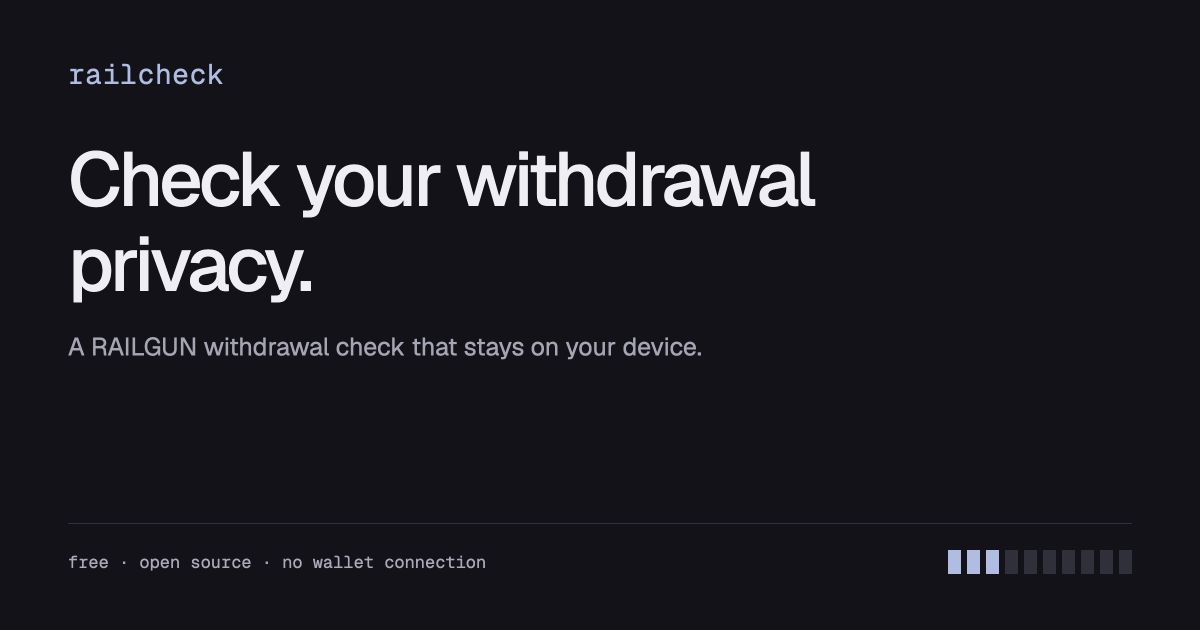
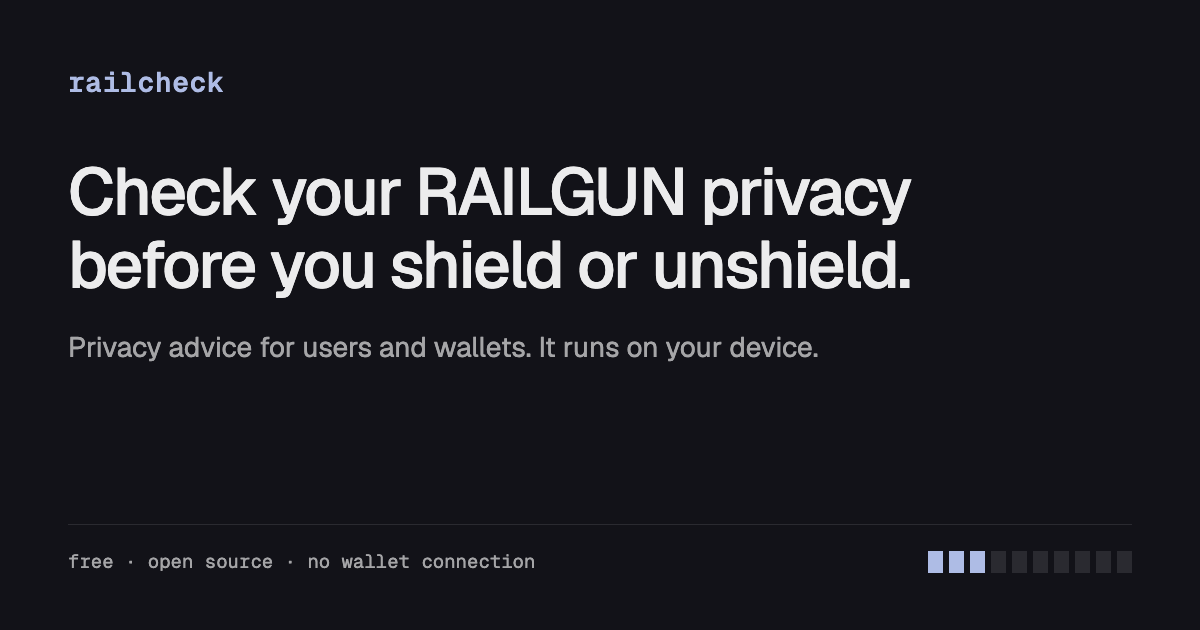
Share image: shield and unshield, made from HTML
- New public/og.png (1200 x 630, PNG): 'Check your RAILGUN privacy before
  you shield or unshield.' The old image said 'withdrawal privacy' and was
  a JPEG with a .png name.
- scripts/og.html is the source, with the command to make the image again.

diff --git a/scripts/og.html b/scripts/og.html
@@ -1,0 +1,93 @@
+<!doctype html>
+<!--
+  Source of public/og.png (1200 × 630). To make the image again, from the repository root:
+  "/Applications/Google Chrome.app/Contents/MacOS/Google Chrome" --headless --hide-scrollbars \
+    --window-size=1200,630 --screenshot=public/og.png scripts/og.html
+-->
+<html lang="en">
+  <head>
+    <meta charset="utf-8" />
+    <style>
+      @font-face {
+        font-family: Geist;
+        src: url("../public/fonts/geist.woff2") format("woff2");
+        font-weight: 100 900;
+      }
+      @font-face {
+        font-family: GeistMono;
+        src: url("../public/fonts/geist-mono.woff2") format("woff2");
+        font-weight: 100 900;
+      }
+      html,
+      body {
+        margin: 0;
+        width: 1200px;
+        height: 630px;
+        overflow: hidden;
+        background: #121218;
+        color: rgba(255, 255, 255, 0.92);
+        font-family: Geist, sans-serif;
+      }
+      main {
+        box-sizing: border-box;
+        height: 630px;
+        padding: 64px 68px 56px;
+        display: flex;
+        flex-direction: column;
+      }
+      .brand {
+        font-family: GeistMono, monospace;
+        font-size: 28px;
+        font-weight: 600;
+        letter-spacing: 0.02em;
+        color: #aebce5;
+      }
+      h1 {
+        margin: 56px 0 0;
+        font-size: 66px;
+        line-height: 1.1;
+        font-weight: 500;
+        letter-spacing: -0.03em;
+      }
+      p {
+        margin: 28px 0 0;
+        font-size: 28px;
+        color: rgba(255, 255, 255, 0.62);
+      }
+      footer {
+        margin-top: auto;
+        padding-top: 24px;
+        border-top: 1px solid rgba(255, 255, 255, 0.1);
+        display: flex;
+        justify-content: space-between;
+        align-items: center;
+        font-family: GeistMono, monospace;
+        font-size: 19px;
+        color: rgba(255, 255, 255, 0.62);
+      }
+      .pix {
+        display: flex;
+        gap: 6px;
+      }
+      .pix i {
+        width: 15px;
+        height: 22px;
+        background: rgba(255, 255, 255, 0.1);
+      }
+      .pix i.on {
+        background: #aebce5;
+      }
+    </style>
+  </head>
+  <body>
+    <main>
+      <div class="brand">railcheck</div>
+      <h1>Check your RAILGUN privacy<br />before you shield or unshield.</h1>
+      <p>Privacy advice for users and wallets. It runs on your device.</p>
+      <footer>
+        <span>free · open source · no wallet connection</span>
+        <span class="pix"><i class="on"></i><i class="on"></i><i class="on"></i><i></i><i></i><i></i><i></i><i></i><i></i><i></i></span>
+      </footer>
+    </main>
+  </body>
+</html>
